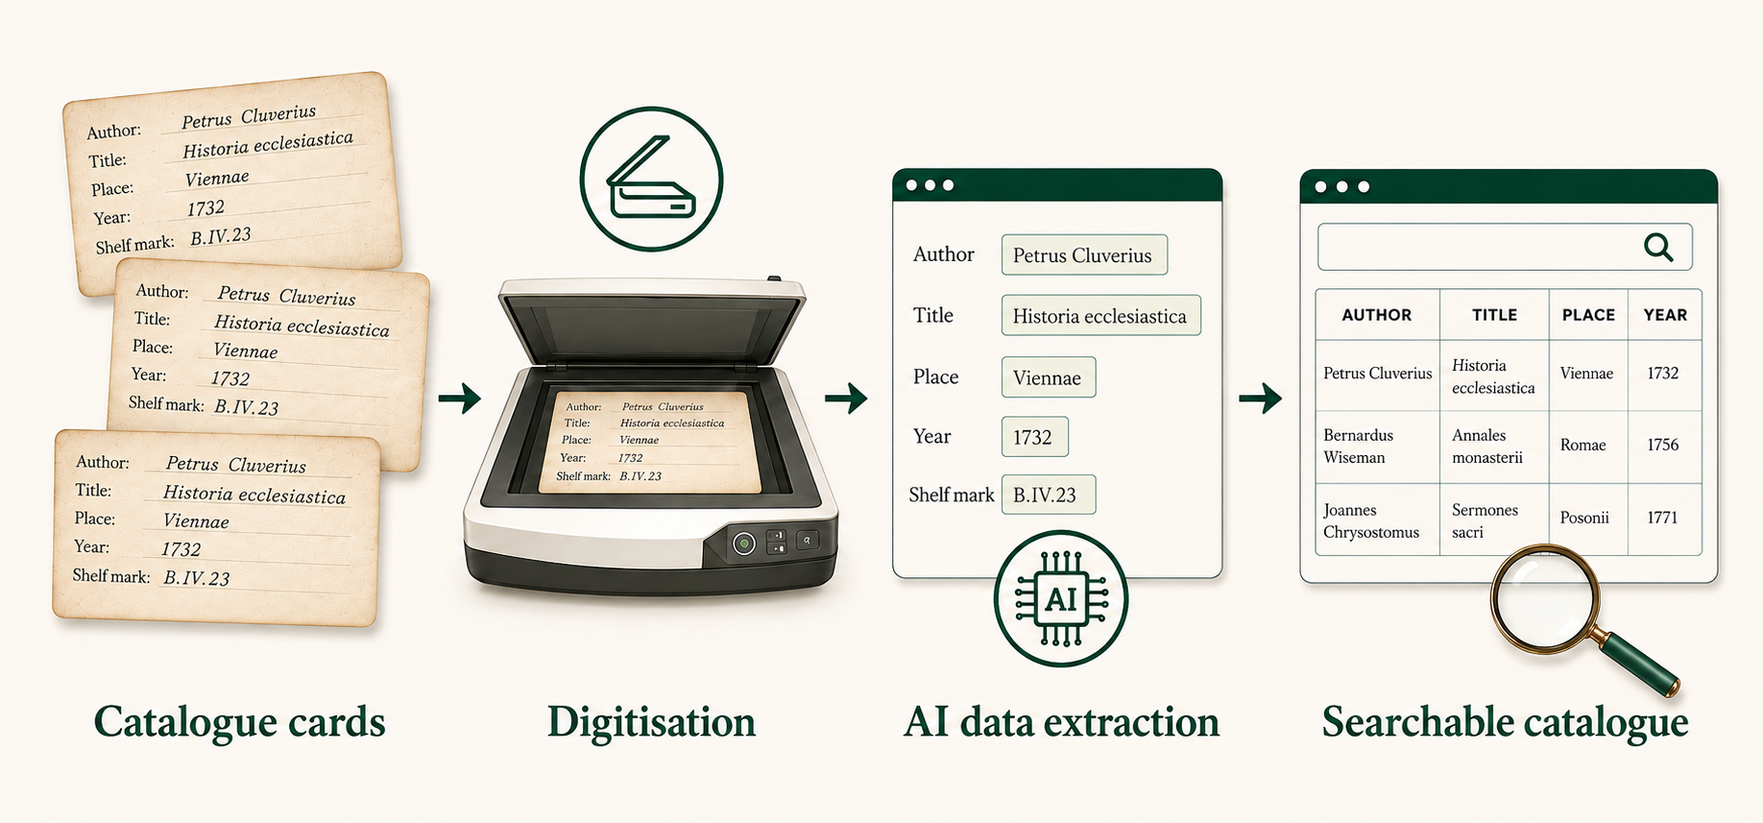
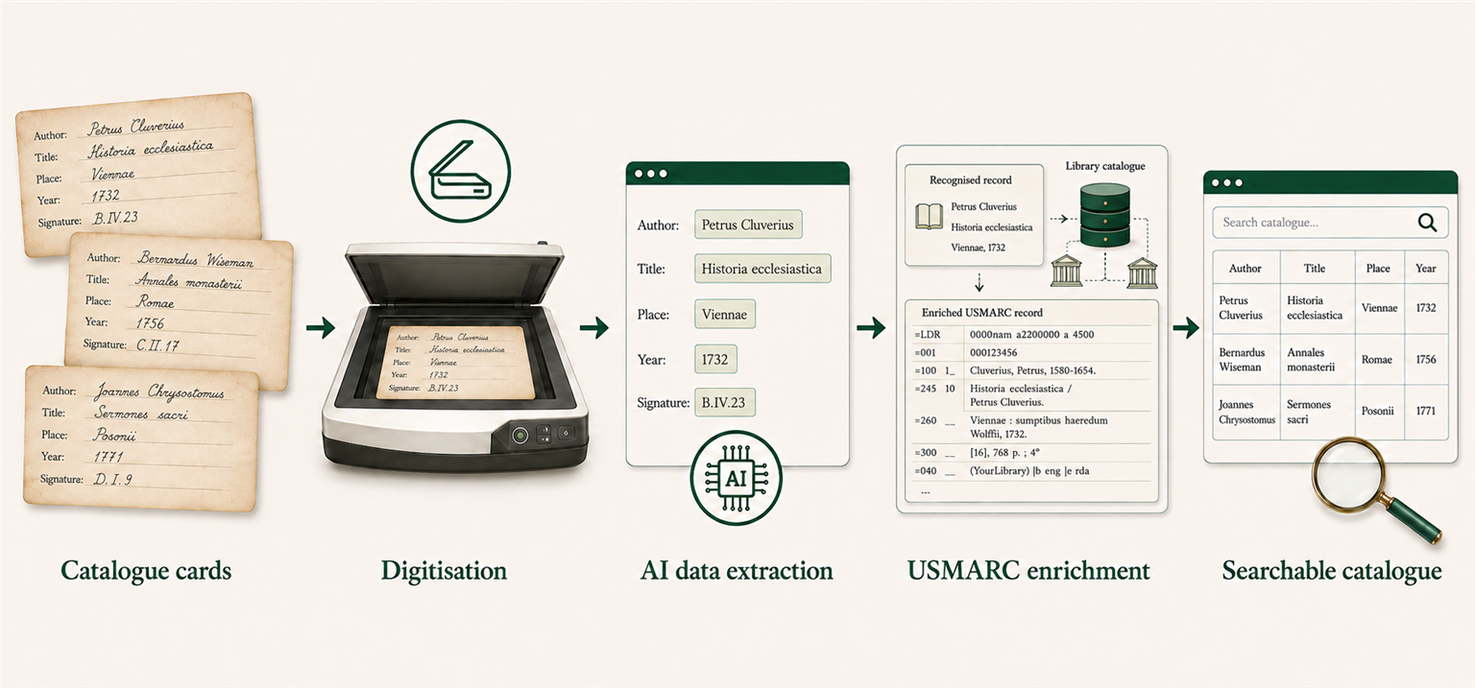
Highlight USMARC enrichment workflow

Changed region(s): [[0.0, 0.0614, 1.0, 0.9205], [0.0312, 0.7978, 0.2188, 0.9205], [0.25, 0.7978, 0.4375, 0.9205]]

diff --git a/web_ocr/index.html b/web_ocr/index.html
@@ -3,8 +3,8 @@
 <meta charset="utf-8"><meta name="viewport" content="width=device-width, initial-scale=1">
 <meta name="description" content="CatalogPlus – AI-alapú katalógusfeldolgozás, kereshető adatbázis és könyvtári kliensprogram." data-i18n-content="page.04">
 <title data-i18n="page.03">CatalogPlus — Kereshető katalógus, kevesebb kézi munka</title>
-<link rel="stylesheet" href="css/catalogplus.css?v=20260906-2">
-<script src="js/lang_ocr_hun.js?v=20260906-2" defer=""></script><script src="js/lang_ocr_eng.js?v=20260906-2" defer=""></script><script src="js/catalogplus.js?v=20260906-2" defer=""></script></head>
+<link rel="stylesheet" href="css/catalogplus.css?v=20260907-1">
+<script src="js/lang_ocr_hun.js?v=20260907-1" defer=""></script><script src="js/lang_ocr_eng.js?v=20260907-1" defer=""></script><script src="js/catalogplus.js?v=20260907-1" defer=""></script></head>
 <body>
 <a class="skip" href="#attekintes" data-i18n="page.01">Ugrás a tartalomra</a>
 <header><div class="wrap header-inner"><a class="brand" href="#" aria-label="CatalogPlus kezdőlap" data-i18n-aria-label="header.06"><span class="brand-mark" aria-hidden="true"><i></i><i></i><i></i></span>CatalogPlus</a><nav aria-label="Fő navigáció" data-i18n-aria-label="header.07"><a href="#hozzaferes" data-i18n="header.01">Mit kap?</a><a href="#mukodes" data-i18n="header.02">Működés</a><a href="#funkciok" data-i18n="header.03">Funkciók</a><a href="#dijak" data-i18n="header.04">Díjak</a></nav><div class="language-switch" role="group" aria-label="Language / Nyelv"><button type="button" data-language="hu" lang="hu" aria-pressed="true">Magyar</button><button type="button" data-language="en" lang="en" aria-pressed="false">English</button></div></div></header>
@@ -50,7 +50,7 @@
   <path d="M8 19h13"></path>
 </svg>
 </span><div><strong>10×</strong><h4 data-i18n="hozzaferes.19">Gyorsabb keresés</h4><p data-i18n="hozzaferes.20">A digitális keresés kiváltja a papírcédulák kézi átnézését.</p></div></article></div><p class="results-note" data-i18n="hozzaferes.21">Irányadó értékek; az elérhető időnyereség az állománytól és a munkafolyamattól függ.</p></div></section>
-<section class="section" id="mukodes"><div class="wrap"><div class="section-top"><div><div class="eyebrow section-marker" data-i18n="mukodes.01">02 / Hogyan készül el?</div><h2 data-i18n="mukodes.02">A papírcéduláktól<br>a kereshető katalógusig.</h2></div><p data-i18n="mukodes.03">A digitális képeken szereplő adatokat AI segítségével nyerjük ki, és rendezett, kereshető katalógussá alakítjuk.</p></div><figure class="process-figure"><button type="button" class="enlarge-image" aria-label="Cédulák, digitalizálás, AI-adatkinyerés és kereshető katalógus — nagyítás" data-i18n-aria-label="mukodes.13"><img src="img/process-hu.png" alt="Cédulák, digitalizálás, AI-adatkinyerés és kereshető katalógus" width="1536" height="717" loading="lazy" data-i18n-alt="mukodes.14" data-localised-image="process"></button><figcaption data-i18n="mukodes.04">A papíralapú nyilvántartástól a kereshető katalógusig.<span>Az ábra kattintással nagyítható.</span></figcaption></figure><div class="plain-steps"><div><span class="num">01</span><strong data-i18n="mukodes.05">Cédulák és jegyzékek</strong><p data-i18n="mukodes.06">A gyűjtemény meglévő papíralapú nyilvántartása.</p></div><div><span class="num">02</span><strong data-i18n="mukodes.07">Digitalizálás</strong><p data-i18n="mukodes.08">A papíralapú anyag képként vagy PDF-ként válik feldolgozhatóvá.</p></div><div><span class="num">03</span><strong data-i18n="mukodes.09">AI-adatkinyerés</strong><p data-i18n="mukodes.10">Mesterséges intelligenciával nyerjük ki a könyvadatokat.</p></div><div><span class="num">04</span><strong data-i18n="mukodes.11">Kereshető katalógus</strong><p data-i18n="mukodes.12">A könyvtáros kereshet, ellenőrizhet és listát készíthet.</p></div></div></div></section>
+<section class="section" id="mukodes"><div class="wrap"><div class="section-top"><div><div class="eyebrow section-marker" data-i18n="mukodes.01">02 / Hogyan készül el?</div><h2 data-i18n="mukodes.02">A papírcéduláktól<br>a kereshető katalógusig.</h2></div><p data-i18n="mukodes.03">A digitális képekből AI segítségével nyerjük ki a könyvadatokat. A felismert műveket automatikusan azonosítjuk a nagy könyvtárak katalógusaiban, majd hivatalos USMARC-adatokkal bővítjük.</p></div><figure class="process-figure"><button type="button" class="enlarge-image" aria-label="Cédulák, digitalizálás, AI-adatkinyerés, USMARC-adatbővítés és kereshető katalógus — nagyítás" data-i18n-aria-label="mukodes.13"><img src="img/process-hu.png?v=20260907-1" alt="Cédulák, digitalizálás, AI-adatkinyerés, USMARC-adatbővítés és kereshető katalógus" width="1536" height="717" loading="lazy" data-i18n-alt="mukodes.14" data-localised-image="process"></button><figcaption data-i18n="mukodes.04">A papíralapú nyilvántartástól a kereshető katalógusig.<span>Az ábra kattintással nagyítható.</span></figcaption></figure><div class="plain-steps"><div><span class="num">01</span><strong data-i18n="mukodes.05">Cédulák és jegyzékek</strong><p data-i18n="mukodes.06">A gyűjtemény meglévő papíralapú nyilvántartása.</p></div><div><span class="num">02</span><strong data-i18n="mukodes.07">Digitalizálás</strong><p data-i18n="mukodes.08">A papíralapú anyag képként vagy PDF-ként válik feldolgozhatóvá.</p></div><div><span class="num">03</span><strong data-i18n="mukodes.09">AI-adatkinyerés</strong><p data-i18n="mukodes.10">Mesterséges intelligenciával nyerjük ki a könyvadatokat.</p></div><div><span class="num">04</span><strong data-i18n="mukodes.17">USMARC-adatbővítés</strong><p data-i18n="mukodes.18">A felismert könyvet nagy könyvtári katalógusokban azonosítjuk, és hivatalos USMARC-adatokkal egészítjük ki.</p></div><div><span class="num">05</span><strong data-i18n="mukodes.11">Kereshető katalógus</strong><p data-i18n="mukodes.12">A könyvtáros kereshet, ellenőrizhet és listát készíthet.</p></div></div></div></section>
 <section class="section" id="funkciok"><div class="wrap"><div class="section-top"><div><div class="eyebrow section-marker" data-i18n="funkciok.01">03 / Miben lesz könnyebb a munka?</div><h2 data-i18n="funkciok.02">Kevesebb keresgélés.<br>Több idő a könyvtári feladatokra.</h2></div></div><figure class="process-figure"><button type="button" class="enlarge-image" aria-label="A CatalogPlus funkciói: keresés, ellenőrzés és javítás, USMARC-keresés, Excel-export — nagyítás" data-i18n-aria-label="funkciok.14"><img src="img/features-hu.png" alt="Keresés a CatalogPlusban, a könyvadatok ellenőrzése és Excel-lista készítése" width="1536" height="1024" loading="lazy" data-i18n-alt="funkciok.15" data-localised-image="features"></button><figcaption data-i18n="funkciok.13">A CatalogPlus fő funkciói.<span>Az ábra kattintással nagyítható.</span></figcaption></figure></div></section>
 
 <section class="section pricing" id="dijak"><div class="wrap"><div class="section-top"><div><div class="eyebrow section-marker" data-i18n="dijak.01">04 / Egyszeri díjak</div><h2 data-i18n="dijak.02">Feldolgozás mennyiség alapján.<br>Kliensprogram számítógépenként.</h2></div><p data-i18n="dijak.03">Nincs havidíj. A feldolgozásért egyszer fizet, a <strong class="product-highlight">CatalogPlus kliensprogramot</strong> pedig igény szerint vásárolhatja meg.</p></div><div class="package-grid" aria-label="Egyszeri cédulafeldolgozási csomagok" data-i18n-aria-label="dijak.33"><article class="package-card"><div class="package-top"><span class="package-number">01</span><h3 data-i18n="dijak.04">Kis csomag</h3><p data-i18n="dijak.05">250 000 cédula alatt</p></div><div class="package-price" data-i18n="dijak.06"><strong>100 <span>Ft</span></strong><span>/ cédula · egyszeri díj</span></div><p class="package-description" data-i18n="dijak.07">Katalóguscédulák AI-alapú feldolgozása képekből és PDF-ekből.</p><div class="package-includes" data-i18n="dijak.08"><span>Adatok kinyerése és rendezése</span><span>Kereshető katalógusadatok</span></div></article><article class="package-card package-accent"><div class="package-top"><span class="package-number">02</span><h3 data-i18n="dijak.09">Közepes csomag</h3><p data-i18n="dijak.10">250 000–499 999 cédula</p></div><div class="package-price" data-i18n="dijak.11"><strong>90 <span>Ft</span></strong><span>/ cédula · egyszeri díj</span></div><p class="package-description" data-i18n="dijak.12">Katalóguscédulák AI-alapú feldolgozása képekből és PDF-ekből.</p><div class="package-includes" data-i18n="dijak.13"><span>Adatok kinyerése és rendezése</span><span>Kereshető katalógusadatok</span></div></article><article class="package-card"><div class="package-top"><span class="package-number">03</span><h3 data-i18n="dijak.14">Nagy csomag</h3><p data-i18n="dijak.15">500 000–1 000 000 cédula</p></div><div class="package-price" data-i18n="dijak.16"><strong>80 <span>Ft</span></strong><span>/ cédula · egyszeri díj</span></div><p class="package-description" data-i18n="dijak.17">Katalóguscédulák AI-alapú feldolgozása képekből és PDF-ekből.</p><div class="package-includes" data-i18n="dijak.18"><span>Adatok kinyerése és rendezése</span><span>Kereshető katalógusadatok</span></div></article></div><div class="oneoff-extras"><article class="license-box"><svg class="client-diagram" viewBox="0 0 340 200" xmlns="http://www.w3.org/2000/svg" role="img" aria-labelledby="client-diagram-title"><title id="client-diagram-title" data-i18n="dijak.19">Számítógépen futó CatalogPlus program kapcsolódása a katalógusadatbázishoz</title><defs><linearGradient id="client-screen" x2="0" y2="1"><stop stop-color="#ffffff"></stop><stop offset="1" stop-color="#edf2e9"></stop></linearGradient></defs><g fill="none" stroke="#b9d2bf" stroke-width="1.5" stroke-linejoin="round"><rect x="12" y="24" width="202" height="131" rx="9" fill="#38594a"></rect><rect x="20" y="32" width="186" height="108" rx="4" fill="url(#client-screen)" stroke="none"></rect><path d="M93 155v19h41v-19" fill="#537461"></path><path d="M73 177h81l10 8H63z" fill="#38594a"></path><path d="M94 162h40" stroke="#6b8d75"></path><circle cx="113" cy="147" r="2" fill="#d5e2d0" stroke="none"></circle></g><rect x="20" y="32" width="186" height="16" rx="4" fill="#dbe7d6"></rect><path d="M20 43h186v5H20z" fill="#dbe7d6"></path><g fill="#52785c"><rect x="27" y="36" width="3" height="8" rx="1"></rect><rect x="32" y="35" width="3" height="9" rx="1"></rect><rect x="37" y="37" width="3" height="7" rx="1"></rect></g><text x="47" y="43" fill="#284e3d" font-family="Segoe UI,sans-serif" font-size="7" font-weight="600">CatalogPlus</text><g stroke="#869d8d" stroke-width="1"><path d="M181 40h5m6-2 4 4m0-4-4 4"></path></g><rect x="25" y="54" width="43" height="79" rx="3" fill="#e7eee1"></rect><g fill="#759582"><rect x="30" y="60" width="27" height="3" rx="1"></rect><rect x="30" y="70" width="32" height="10" rx="2" fill="#fff"></rect><rect x="30" y="84" width="32" height="7" rx="2" fill="#628571"></rect><rect x="30" y="99" width="22" height="2" rx="1"></rect><rect x="30" y="107" width="28" height="2" rx="1"></rect><rect x="30" y="115" width="18" height="2" rx="1"></rect></g><g transform="translate(74 54)"><rect width="126" height="14" rx="2" fill="#39644b"></rect><g font-family="Segoe UI,sans-serif" font-size="5.5" fill="#fff"><text x="5" y="9" data-i18n="dijak.20">Szerző</text><text x="44" y="9" data-i18n="dijak.21">Cím</text><text x="104" y="9" data-i18n="dijak.22">Év</text></g><rect y="30" width="126" height="15" fill="#d6e5cd"></rect><g fill="none" stroke="#ced9cb" stroke-width=".7"><path d="M0 15v63h126V15M0 30h126M0 45h126M0 60h126M39 15v63M99 15v63"></path></g><g fill="#74917a"><rect x="5" y="21" width="27" height="2"></rect><rect x="44" y="21" width="43" height="2"></rect><rect x="105" y="21" width="14" height="2"></rect><rect x="5" y="36" width="24" height="2"></rect><rect x="44" y="36" width="49" height="2"></rect><rect x="105" y="36" width="14" height="2"></rect><rect x="5" y="51" width="28" height="2"></rect><rect x="44" y="51" width="36" height="2"></rect><rect x="105" y="51" width="14" height="2"></rect><rect x="5" y="68" width="22" height="2"></rect><rect x="44" y="68" width="46" height="2"></rect><rect x="105" y="68" width="14" height="2"></rect></g></g><path d="M214 89h19q8 0 8 8v7q0 8 8 8h17" fill="none" stroke="#b7cfa5" stroke-width="2"></path><circle cx="214" cy="89" r="3" fill="#e9eedc"></circle><circle cx="265" cy="112" r="3" fill="#e9eedc"></circle><g fill="#dae6d1"><rect x="232" y="91" width="5" height="5" rx="1" transform="rotate(45 234 93)"></rect><rect x="244" y="109" width="5" height="5" rx="1" transform="rotate(45 246 111)"></rect></g><g stroke="#c7d9bf" stroke-width="1.5"><path d="M266 68v68c0 9 61 9 61 0V68" fill="#466a53"></path><ellipse cx="296.5" cy="68" rx="30.5" ry="10" fill="#779779"></ellipse><path d="M266 90c0 12 61 12 61 0m-61 23c0 12 61 12 61 0" fill="none"></path><ellipse cx="296.5" cy="68" rx="20" ry="5" fill="none" stroke="#b6ccb0" stroke-width=".8"></ellipse></g><g fill="#e8f0dd"><circle cx="276" cy="83" r="2"></circle><circle cx="276" cy="106" r="2"></circle><circle cx="276" cy="130" r="2"></circle></g><text x="296" y="163" text-anchor="middle" fill="#d9e5d4" font-family="Segoe UI,sans-serif" font-size="9" data-i18n="dijak.23">Katalógusadatbázis</text></svg><div class="license-copy"><div class="eyebrow" data-i18n="dijak.24">Választható kliensprogram</div><h3 data-i18n="dijak.25">CatalogPlus az Ön számítógépén</h3><p data-i18n="dijak.26">Keresés, USMARC-alapú adatbővítés, adatjavítás és Excel-export a feldolgozott katalógusban.</p></div><div class="license-price" data-i18n="dijak.27"><strong>35 000 Ft</strong><span>/ számítógép · egyszeri díj</span></div></article><article class="import-box"><div class="eyebrow" data-i18n="dijak.28">Meglévő adatok átvétele</div><h3 data-i18n="dijak.29">Külső rendszerből importálás</h3><p data-i18n="dijak.30">Korábbi adatbázisból vagy nyilvántartásból történő átvétel, az anyag felmérése alapján.</p><strong data-i18n="dijak.31">Egyedi árajánlat</strong></article></div><p class="concept-note" data-i18n="dijak.32">A díjazás alapja a feldolgozandó cédulák száma. Más típusú anyag, külső adatimport vagy 1 000 000 feletti tételszám esetén egyedi ajánlat készül. A pontos tartalmat, a végösszeget és az áfa kezelését az ajánlatban rögzítjük.</p></div></section>

diff --git a/web_ocr/css/catalogplus.css b/web_ocr/css/catalogplus.css
@@ -20,7 +20,7 @@ body{font-size:16px;line-height:1.7}nav{font-size:14px}.btn{font-size:14px;paddi
 /* ONE-TIME SERVICES AND EXPLANATORY FIGURES */
 .process-figure{margin:24px 0 0;border:1px solid var(--line);background:var(--paper);border-radius:12px;overflow:hidden}.enlarge-image{border:0;padding:0;display:block;background:transparent;width:100%;cursor:zoom-in}.process-figure img{width:100%;height:auto;max-height:550px;object-fit:contain}.process-figure figcaption{display:flex;justify-content:space-between;gap:20px;padding:14px 20px;font-size:12px;color:var(--muted);border-top:1px solid var(--line);background:var(--paper)}.process-figure figcaption span{white-space:nowrap}.plain-steps{display:grid;grid-template-columns:repeat(3,1fr);gap:30px;margin-top:25px}.plain-steps .num{display:block;margin-bottom:8px}.plain-steps strong{font-size:16px}.plain-steps p{font-size:14px;color:var(--muted);margin:7px 0 0}.process-intro{margin-top:35px}.process-intro h3{font:25px/1.35 Georgia,serif}.pricing-table-wrap{border:1px solid var(--line);border-radius:10px;overflow:hidden;background:white}.oneoff-table{border-collapse:collapse;width:100%;text-align:left}.oneoff-table caption{text-align:left;padding:21px 25px;font-size:17px;font-weight:600;background:white}.oneoff-table thead{background:#e7ece3}.oneoff-table th,.oneoff-table td{padding:19px 25px;font-size:15px;border-top:1px solid var(--line)}.oneoff-table thead th{font-size:12px;color:var(--muted);font-weight:500}.oneoff-table tbody th{font-weight:500}.oneoff-table td:last-child{white-space:nowrap}.oneoff-table td strong{font-size:22px;font-weight:600;color:var(--green)}.oneoff-table td span{font-size:13px;color:var(--muted)}.featured-price{background:#f4f7f0}.oneoff-extras{display:grid;grid-template-columns:1.5fr 1fr;gap:22px;margin-top:24px}.license-box{background:var(--ink);color:white;border-radius:10px;padding:27px;display:flex;flex-direction:column;justify-content:space-between}.license-box .eyebrow{color:#bccdb4}.license-box p{font-size:14px;color:#ccd6cd;margin:13px 0 25px}.license-price{border-top:1px solid #566c60;padding-top:19px}.license-price strong{font-size:29px;font-weight:500;display:block}.license-price span{font-size:13px;color:#ccd6cd}.import-box{border:1px solid var(--line);background:white;border-radius:10px;padding:27px}.import-box p{font-size:14px;color:var(--muted);margin:13px 0 25px}.import-box>strong{font-size:17px;color:var(--green)}#figure-dialog{max-width:96vw;max-height:94vh;border:1px solid var(--line);border-radius:12px;padding:16px;background:var(--paper)}#figure-dialog::backdrop{background:#132c24b8}#large-figure{max-height:80vh;max-width:90vw;object-fit:contain}.close-figure{display:block;margin:0 0 12px auto}
 @media(max-width:680px){.process-figure figcaption{display:block;font-size:12px;padding:12px}.process-figure figcaption span{display:block;margin-top:5px}.plain-steps{grid-template-columns:1fr;gap:18px}.plain-steps .num{float:left;margin:3px 14px 35px 0}.process-intro h3{font-size:23px}.oneoff-table caption{font-size:15px;padding:17px}.oneoff-table th,.oneoff-table td{padding:15px 10px;font-size:12px}.oneoff-table thead th{font-size:11px}.oneoff-table td strong{font-size:19px}.oneoff-table td span{font-size:11px;display:block}.oneoff-extras{grid-template-columns:1fr}.license-box,.import-box{padding:23px}.process-figure img{max-height:none}}
-.plain-steps{grid-template-columns:repeat(4,1fr)}@media(max-width:900px){.plain-steps{grid-template-columns:1fr 1fr}}@media(max-width:680px){.plain-steps{grid-template-columns:1fr}}
+.plain-steps{grid-template-columns:repeat(5,1fr)}@media(max-width:900px){.plain-steps{grid-template-columns:1fr 1fr}}@media(max-width:680px){.plain-steps{grid-template-columns:1fr}}
 /* REAL APPLICATION PREVIEW */
 .hero-grid{grid-template-columns:.85fr 1.3fr;gap:38px}.hero-copy h1{font-size:39px}.hero-copy p{font-size:15px}.app-hero{padding:0;min-width:0}.app-frame{border:1px solid #cbd7df;border-radius:10px;overflow:hidden;background:#f0f5f8;box-shadow:0 15px 40px #253e4c13}.app-frame-head{display:flex;justify-content:space-between;gap:15px;padding:12px 15px;font-size:11px;color:#496175;border-bottom:1px solid #d2dce3}.app-frame-head .dot{margin-right:6px;background:#688ba7}.hero-visual.app-hero img{height:auto;width:100%;object-fit:contain;border-radius:0;display:block}.app-frame-caption{margin:14px 0 0;padding:0 3px}.app-frame-caption strong{display:block;font-size:12px;font-weight:500;color:#496175}.app-frame-caption span{display:block;font-size:11px;color:var(--muted);margin-top:4px}.archive-band{display:grid;grid-template-columns:1fr 1fr;gap:42px;background:var(--mint);border-radius:12px;overflow:hidden;margin-bottom:42px;align-items:center}.archive-band img{width:100%;height:235px;object-fit:cover}.archive-band>div{padding:25px 35px 25px 0}.archive-band h3{font:25px/1.3 Georgia,serif;margin-bottom:14px}.archive-band p{font-size:14px;color:var(--muted);margin:0}
 @media(max-width:900px){.hero-grid{grid-template-columns:1fr;gap:28px}.hero-copy{max-width:660px}.hero-copy h1 br{display:none}.hero-copy h1{max-width:550px}.hero-copy p{max-width:600px}.app-hero{max-width:800px}.archive-band{gap:25px}}

diff --git a/web_ocr/js/lang_ocr_hun.js b/web_ocr/js/lang_ocr_hun.js
@@ -41,7 +41,7 @@ window.LANG_OCR_HU = {
   "hozzaferes.21": "Irányadó értékek; az elérhető időnyereség az állománytól és a munkafolyamattól függ.",
   "mukodes.01": "02 / Hogyan készül el?",
   "mukodes.02": "A papírcéduláktól<br> a kereshető katalógusig.",
-  "mukodes.03": "A digitális képeken szereplő adatokat AI segítségével nyerjük ki, és rendezett, kereshető katalógussá alakítjuk.",
+  "mukodes.03": "A digitális képekből AI segítségével nyerjük ki a könyvadatokat. A felismert műveket automatikusan azonosítjuk a nagy könyvtárak katalógusaiban, majd hivatalos USMARC-adatokkal bővítjük.",
   "mukodes.04": "A papíralapú nyilvántartástól a kereshető katalógusig.<span>Az ábra kattintással nagyítható.</span>",
   "mukodes.05": "Cédulák és jegyzékek",
   "mukodes.06": "A gyűjtemény meglévő papíralapú nyilvántartása.",
@@ -51,6 +51,8 @@ window.LANG_OCR_HU = {
   "mukodes.10": "Mesterséges intelligenciával nyerjük ki a könyvadatokat.",
   "mukodes.11": "Kereshető katalógus",
   "mukodes.12": "A könyvtáros kereshet, ellenőrizhet és listát készíthet.",
+  "mukodes.17": "USMARC-adatbővítés",
+  "mukodes.18": "A felismert könyvet nagy könyvtári katalógusokban azonosítjuk, és hivatalos USMARC-adatokkal egészítjük ki.",
   "funkciok.01": "03 / Miben lesz könnyebb a munka?",
   "funkciok.02": "Kevesebb keresgélés.<br> Több idő a könyvtári feladatokra.",
   "funkciok.13": "A CatalogPlus fő funkciói.<span>Az ábra kattintással nagyítható.</span>",
@@ -112,8 +114,8 @@ window.LANG_OCR_HU = {
   "attekintes.13": "A CatalogPlus valódi felülete — nagyítás",
   "attekintes.14": "A CatalogPlus program valódi képernyőképe: bal oldalt keresési szűrők, jobb oldalt könyvlista és az eredeti cédula",
   "hozzaferes.22": "Régi katalógusfiók és papírcédulák egy muzeális könyvtárban",
-  "mukodes.13": "Cédulák, digitalizálás, AI-adatkinyerés és kereshető katalógus — nagyítás",
-  "mukodes.14": "Cédulák, digitalizálás, AI-adatkinyerés és kereshető katalógus",
+  "mukodes.13": "Cédulák, digitalizálás, AI-adatkinyerés, USMARC-adatbővítés és kereshető katalógus — nagyítás",
+  "mukodes.14": "Cédulák, digitalizálás, AI-adatkinyerés, USMARC-adatbővítés és kereshető katalógus",
   "funkciok.14": "A CatalogPlus funkciói: keresés, ellenőrzés és javítás, USMARC-keresés, Excel-export — nagyítás",
   "funkciok.15": "Keresés a CatalogPlusban, a könyvadatok ellenőrzése és Excel-lista készítése",
   "dijak.33": "Egyszeri cédulafeldolgozási csomagok",

diff --git a/web_ocr/js/lang_ocr_eng.js b/web_ocr/js/lang_ocr_eng.js
@@ -41,7 +41,7 @@ window.LANG_OCR_EN = {
   "hozzaferes.21": "Indicative figures; actual time savings depend on the collection and workflow.",
   "mukodes.01": "02 / How it works",
   "mukodes.02": "From paper cards<br> to a searchable catalogue.",
-  "mukodes.03": "We use AI to extract the information from digital images and organise it into a searchable catalogue.",
+  "mukodes.03": "We use AI to extract book details from digital images. Recognised works are automatically matched in major library catalogues and enriched with official USMARC data.",
   "mukodes.04": "From paper records to a searchable catalogue.<span>Click the illustration to enlarge it.</span>",
   "mukodes.05": "Cards and lists",
   "mukodes.06": "The collection’s existing paper records.",
@@ -51,6 +51,8 @@ window.LANG_OCR_EN = {
   "mukodes.10": "We use artificial intelligence to extract book details.",
   "mukodes.11": "Searchable catalogue",
   "mukodes.12": "Library staff can search, check records and create lists.",
+  "mukodes.17": "USMARC enrichment",
+  "mukodes.18": "We match each recognised book in major library catalogues and add official USMARC data to its record.",
   "funkciok.01": "03 / Everyday benefits",
   "funkciok.02": "Less time searching.<br> More time for library work.",
   "funkciok.13": "The main features of CatalogPlus.<span>Click the illustration to enlarge it.</span>",
@@ -112,8 +114,8 @@ window.LANG_OCR_EN = {
   "attekintes.13": "Enlarge the CatalogPlus application screenshot",
   "attekintes.14": "Actual CatalogPlus screenshot: search filters on the left, book records and the original card on the right",
   "hozzaferes.22": "An old catalogue drawer and paper cards in a historic library",
-  "mukodes.13": "Enlarge: catalogue cards, digitisation, AI data extraction and searchable catalogue",
-  "mukodes.14": "Catalogue cards, digitisation, AI data extraction and searchable catalogue",
+  "mukodes.13": "Enlarge: catalogue cards, digitisation, AI data extraction, USMARC enrichment and searchable catalogue",
+  "mukodes.14": "Catalogue cards, digitisation, AI data extraction, USMARC enrichment and searchable catalogue",
   "funkciok.14": "Enlarge CatalogPlus features: search, review and editing, USMARC search and Excel export",
   "funkciok.15": "CatalogPlus search, record review, USMARC enrichment and Excel export",
   "dijak.33": "One-time catalogue processing packages",

diff --git a/web_ocr/js/catalogplus.js b/web_ocr/js/catalogplus.js
@@ -12,7 +12,7 @@ function setLanguage(language) {
     });
   }
   document.querySelectorAll('[data-localised-image]').forEach(image => {
-    image.src = `img/${image.dataset.localisedImage}-${language}.png`;
+    image.src = `img/${image.dataset.localisedImage}-${language}.png?v=20260907-1`;
   });
   document.querySelectorAll('[data-language]').forEach(button => {
     button.setAttribute('aria-pressed', String(button.dataset.language === language));
